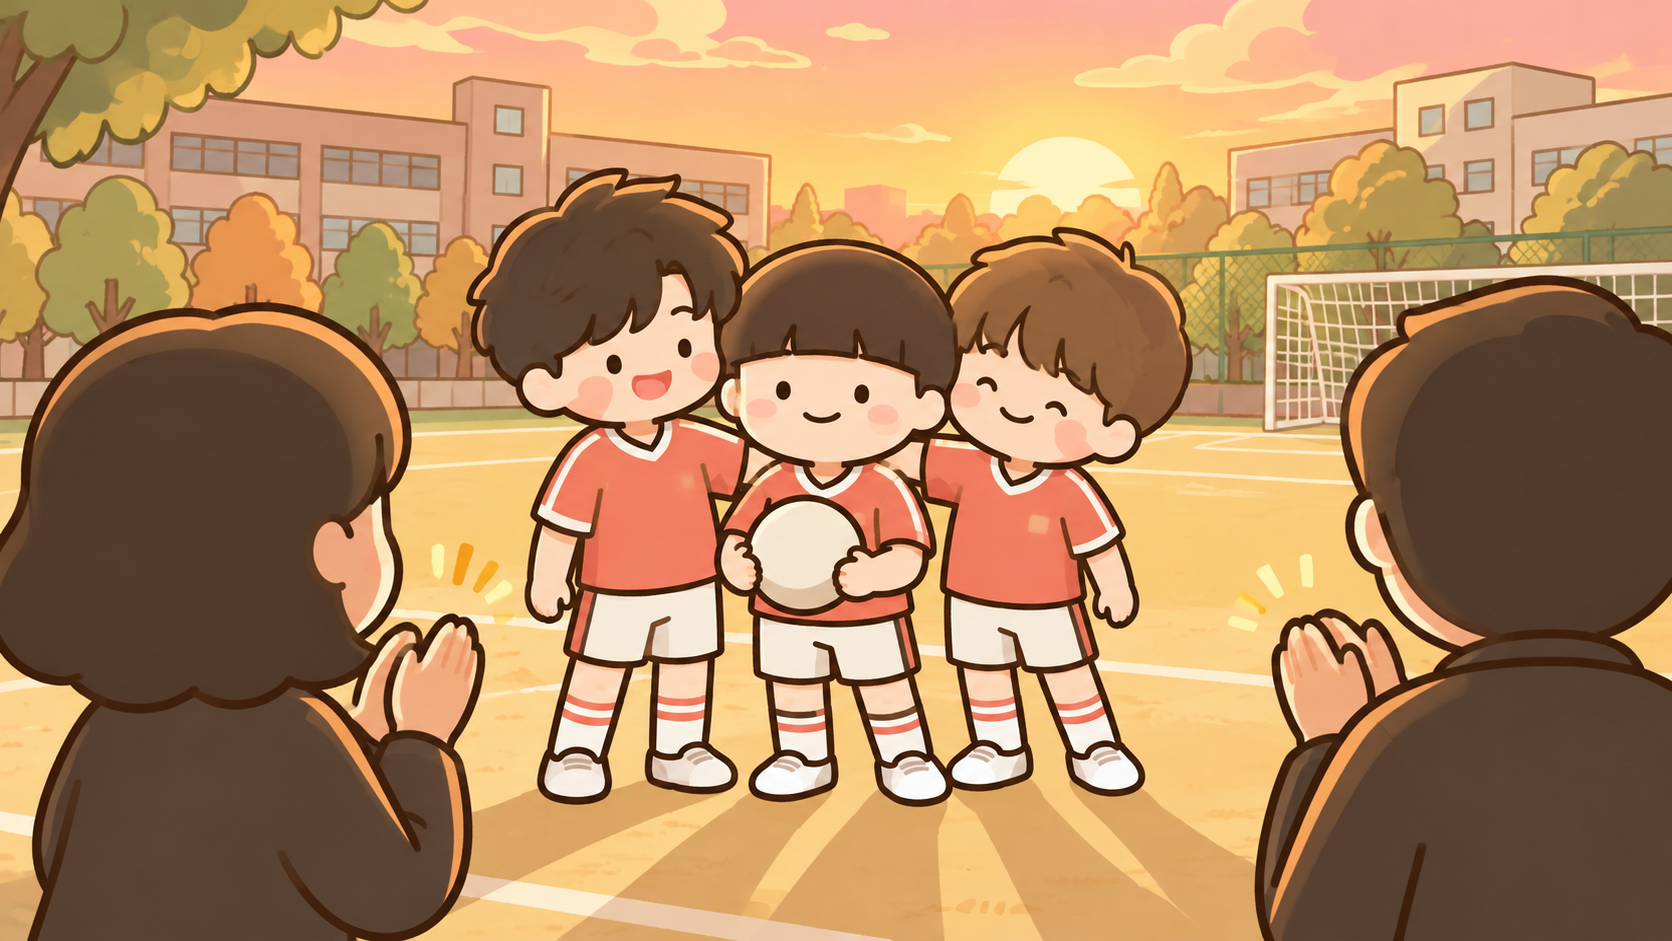
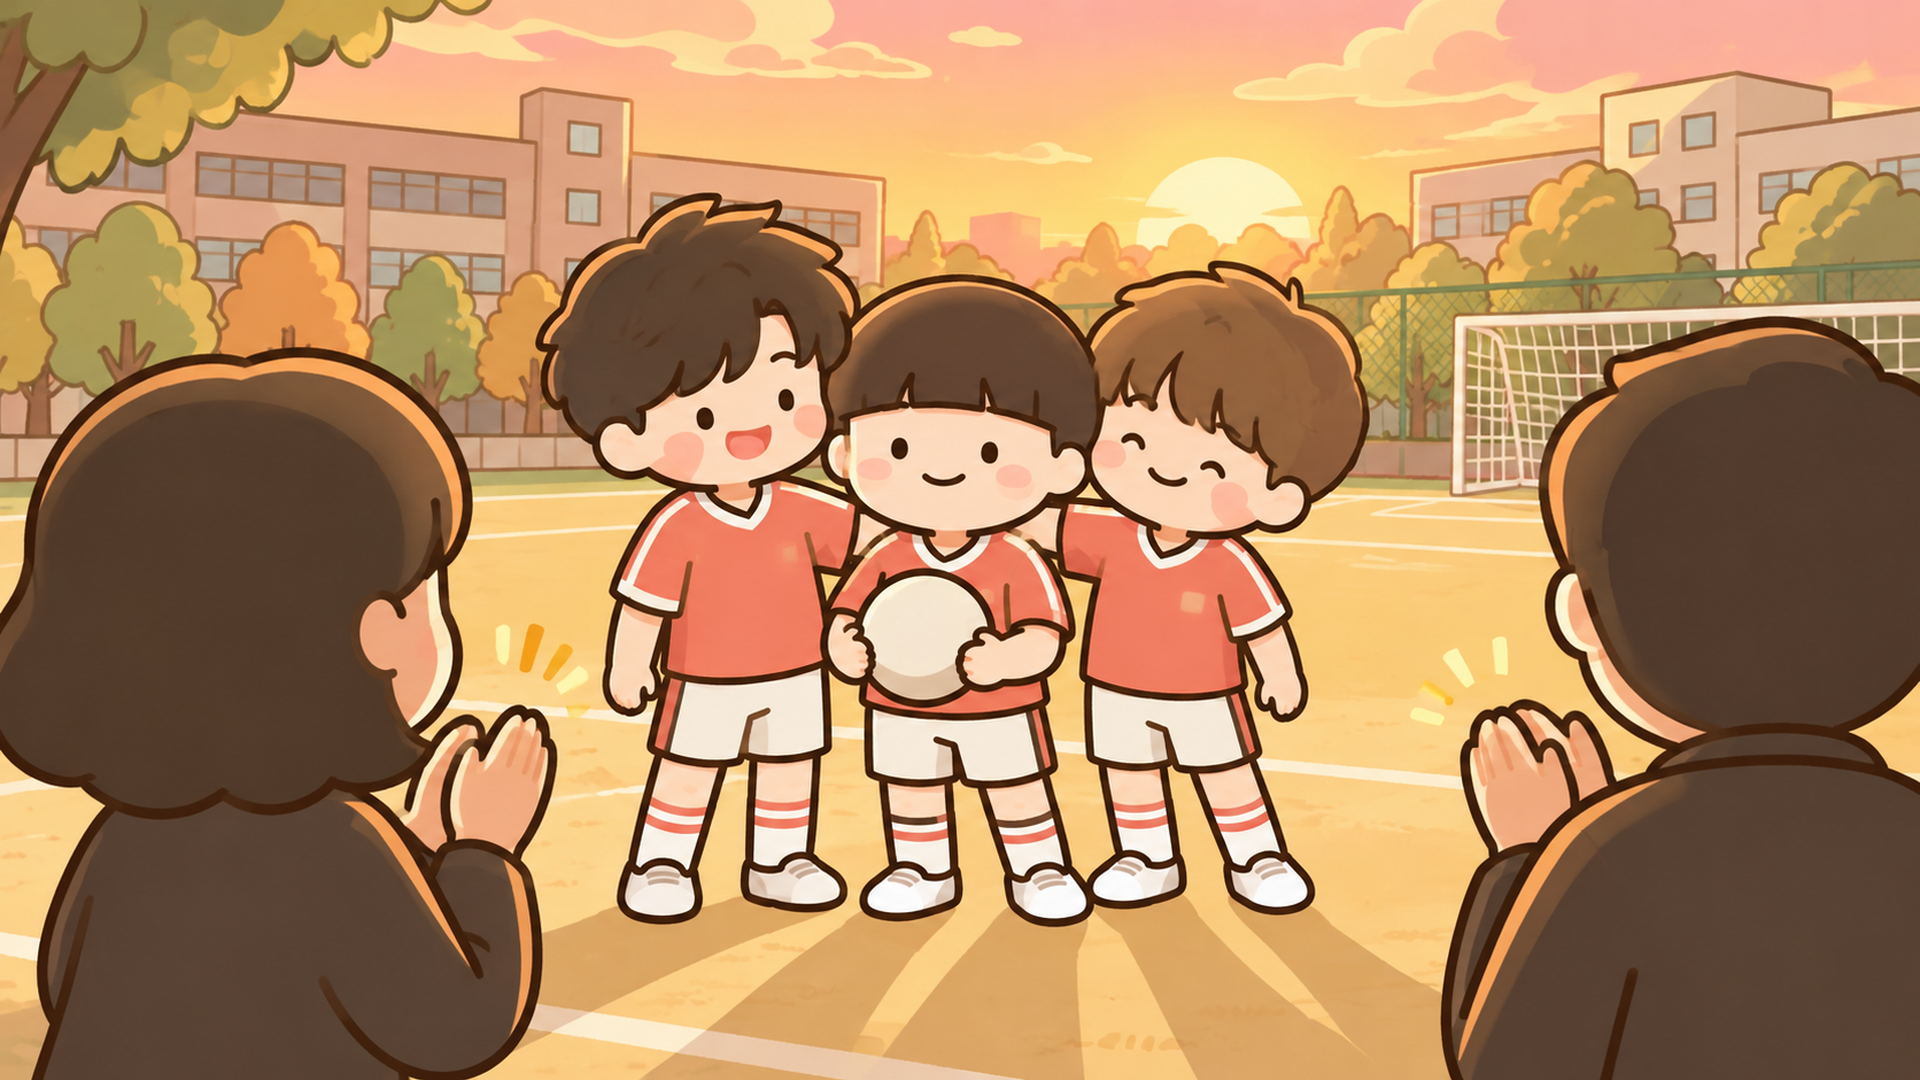
격리 실행의 리소스 캐시와 CG 부모 표현 수정

diff --git a/docs/qa/google-play-launch/import-cache-regression.md b/docs/qa/google-play-launch/import-cache-regression.md
@@ -1,0 +1,13 @@
+# macOS 격리 실행의 리소스 캐시 수정
+
+독립 검수 후보 `55528fac54576a2f6b964953b0d5a21305c197f6`에서 입력 여정은 통과했지만 실제 그림이 프로시저 폴백으로 보였다. 기존 캐시가 `.godot`과 폰트의 `.import`만 복원해 PNG와 오디오의 경로 정보가 빠졌다.
+
+리소스 로드 검사를 먼저 추가한 실행에서 최초 import는 통과하고 같은 캐시의 재실행은 CG 12장, 계절 배경 4장, 오디오와 캐릭터 로딩 실패를 기록했다. 수정 후 두 실행 모두 해당 검사를 통과했다. 같은 캐시에 동시에 import하는 두 프로세스도 각각 성공했다. 세부 로그와 journey.json은 작업별 `build/cache-red-*-v2`, `build/cache-green-*-v2`와 외부 검수 증거로 보존한다.
+
+수정은 엔진 버전, 코드와 런타임 리소스로 캐시 키를 만들고 모든 `.import`의 상대 경로를 함께 복원한다. 완성된 디렉터리만 원자적으로 공개하며, 각 실행의 프로젝트와 저장 경로는 계속 격리한다. `.gdignore` 아래 아트 원본은 import와 캐시 키에서 제외한다.
+
+실제 오디오가 복원된 렌더링 실행에서는 종료 직전 효과음의 재생 참조가 남는 오류도 확인했다. 종료 전에 재생을 중단하고 오디오 믹서를 기다리는 정리 경로를 추가했다. 오디오 파일을 테스트 대역으로 교체하지 않는다.
+
+CG 5장의 부모 표현도 아트 원장의 손, 뒷모습, 실루엣 규칙으로 수정했다. `raw/*-v1.png`에 첫 생성 원본을 보존하고 수정 출처를 asset-manifest.json에 기록했다. 새 6장은 final_canvas를 지정해 실제 1920×1080으로 맞췄다. 정적 아트 판정은 최종 후보의 게임 실행 통과를 대신하지 않는다.
+
+최종 검수는 병합한 같은 후보 SHA의 CI와 독립 실행 3회로 다시 증명한다. Android SDK와 UMP, AAB 서명, 업로드와 공개는 이 개발 수정의 통과와 별개다.

diff --git a/release/launch-status.md b/release/launch-status.md
@@ -11,7 +11,8 @@
 | 전면 광고 | keeum_interstitial, ca-app-pub-9932778305312246/6386352398 |
 | AdMob 실제 게재 | 검토 필요, 공개 스토어 연결과 제공자 확인 전 |
 | 프로덕션 업로드 키 | 카탈로그에 app/keeum/google-play/upload-key 없음. 다른 앱 키 사용 금지 |
-| 개발 검수 | PR #61 병합. 같은 후보 CI 실행. 독립 코어 실행에서 macOS mktemp 충돌을 발견해 수정 후보로 재검수한다. 최초 오류와 중단한 UI 실행은 보존 |
+| 개발 검수 | PR #61과 #62 병합. 독립 검수에서 macOS import 캐시의 이미지와 소리 remap 누락을 찾아 수정한다. 실제 리소스 로딩 검사를 E2E에 추가했다. 최초 오류, 중단, 폴백 화면과 재검수 기록은 보존하며 최종 SHA의 CI와 독립 UI 3회는 별도로 완료해야 함 |
+| 추가 CG | 부모 얼굴이 보이던 5장을 기존 표현 규칙에 맞춰 수정, 처음 생성한 원본 보존. 새 6장의 실제 크기를 1920×1080으로 최종화하고 독립 정적 검토 통과. 최종 후보 실행 화면 검수와 구분 |
 | 기기 검수 | 접근하지 않음. 실제 SDK, UMP 동의 창과 광고 복귀만 개발 검수 후 소명하고 별도 사용 승인 필요 |
 | 스토어 메타데이터 | 소개 문구, 아이콘, 기능 그래픽, 실제 화면 3장 API readback 일치. 개인정보와 광고, 로그인, 타겟층, 데이터 보안, IARC 설문 저장 |
 | 실제 한국 IARC 결과 | 전체이용가. 목표 15세와 구분하며 심사 결과를 다시 확인 |
